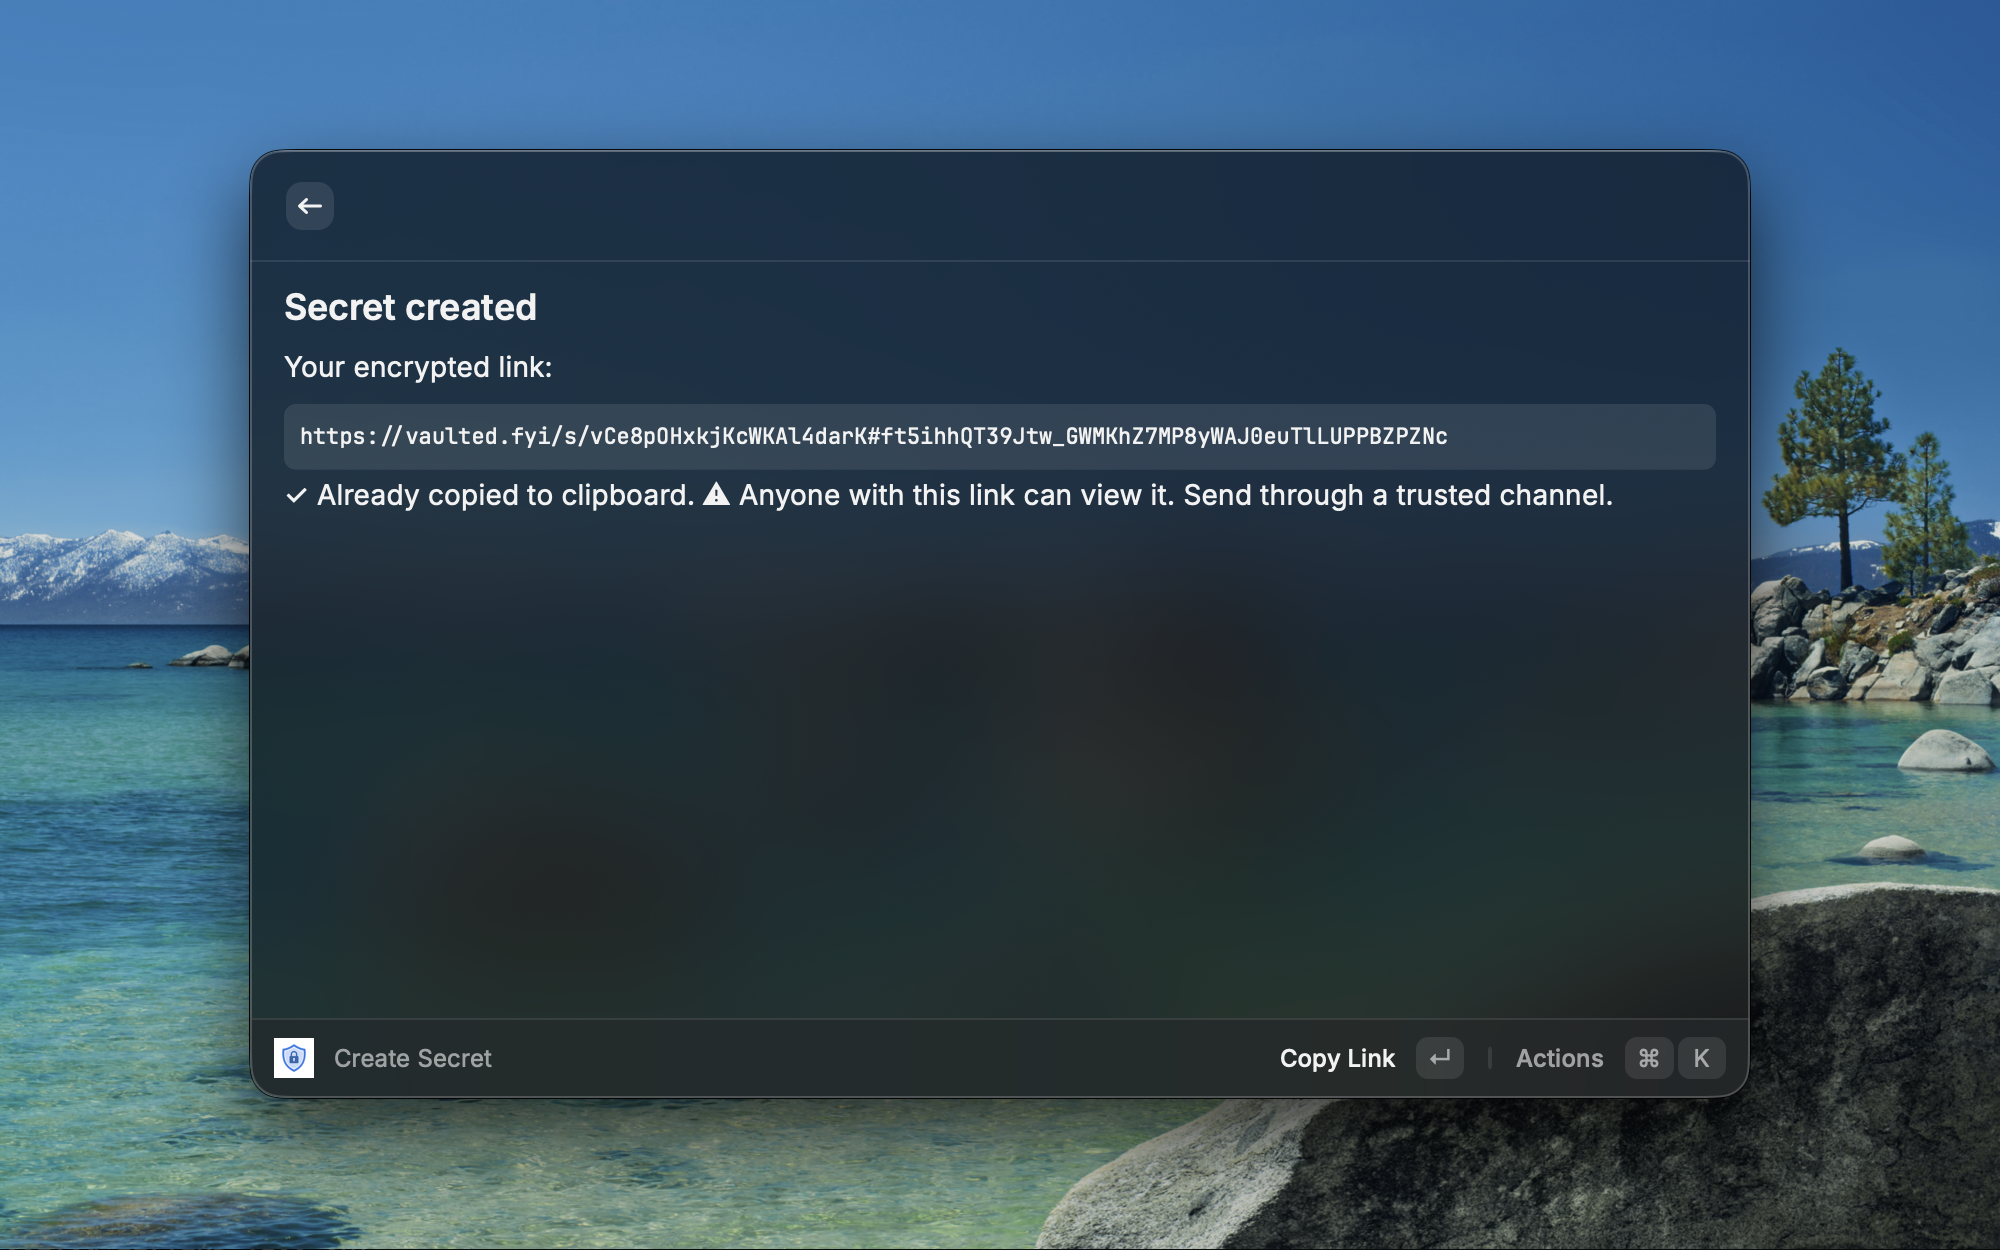
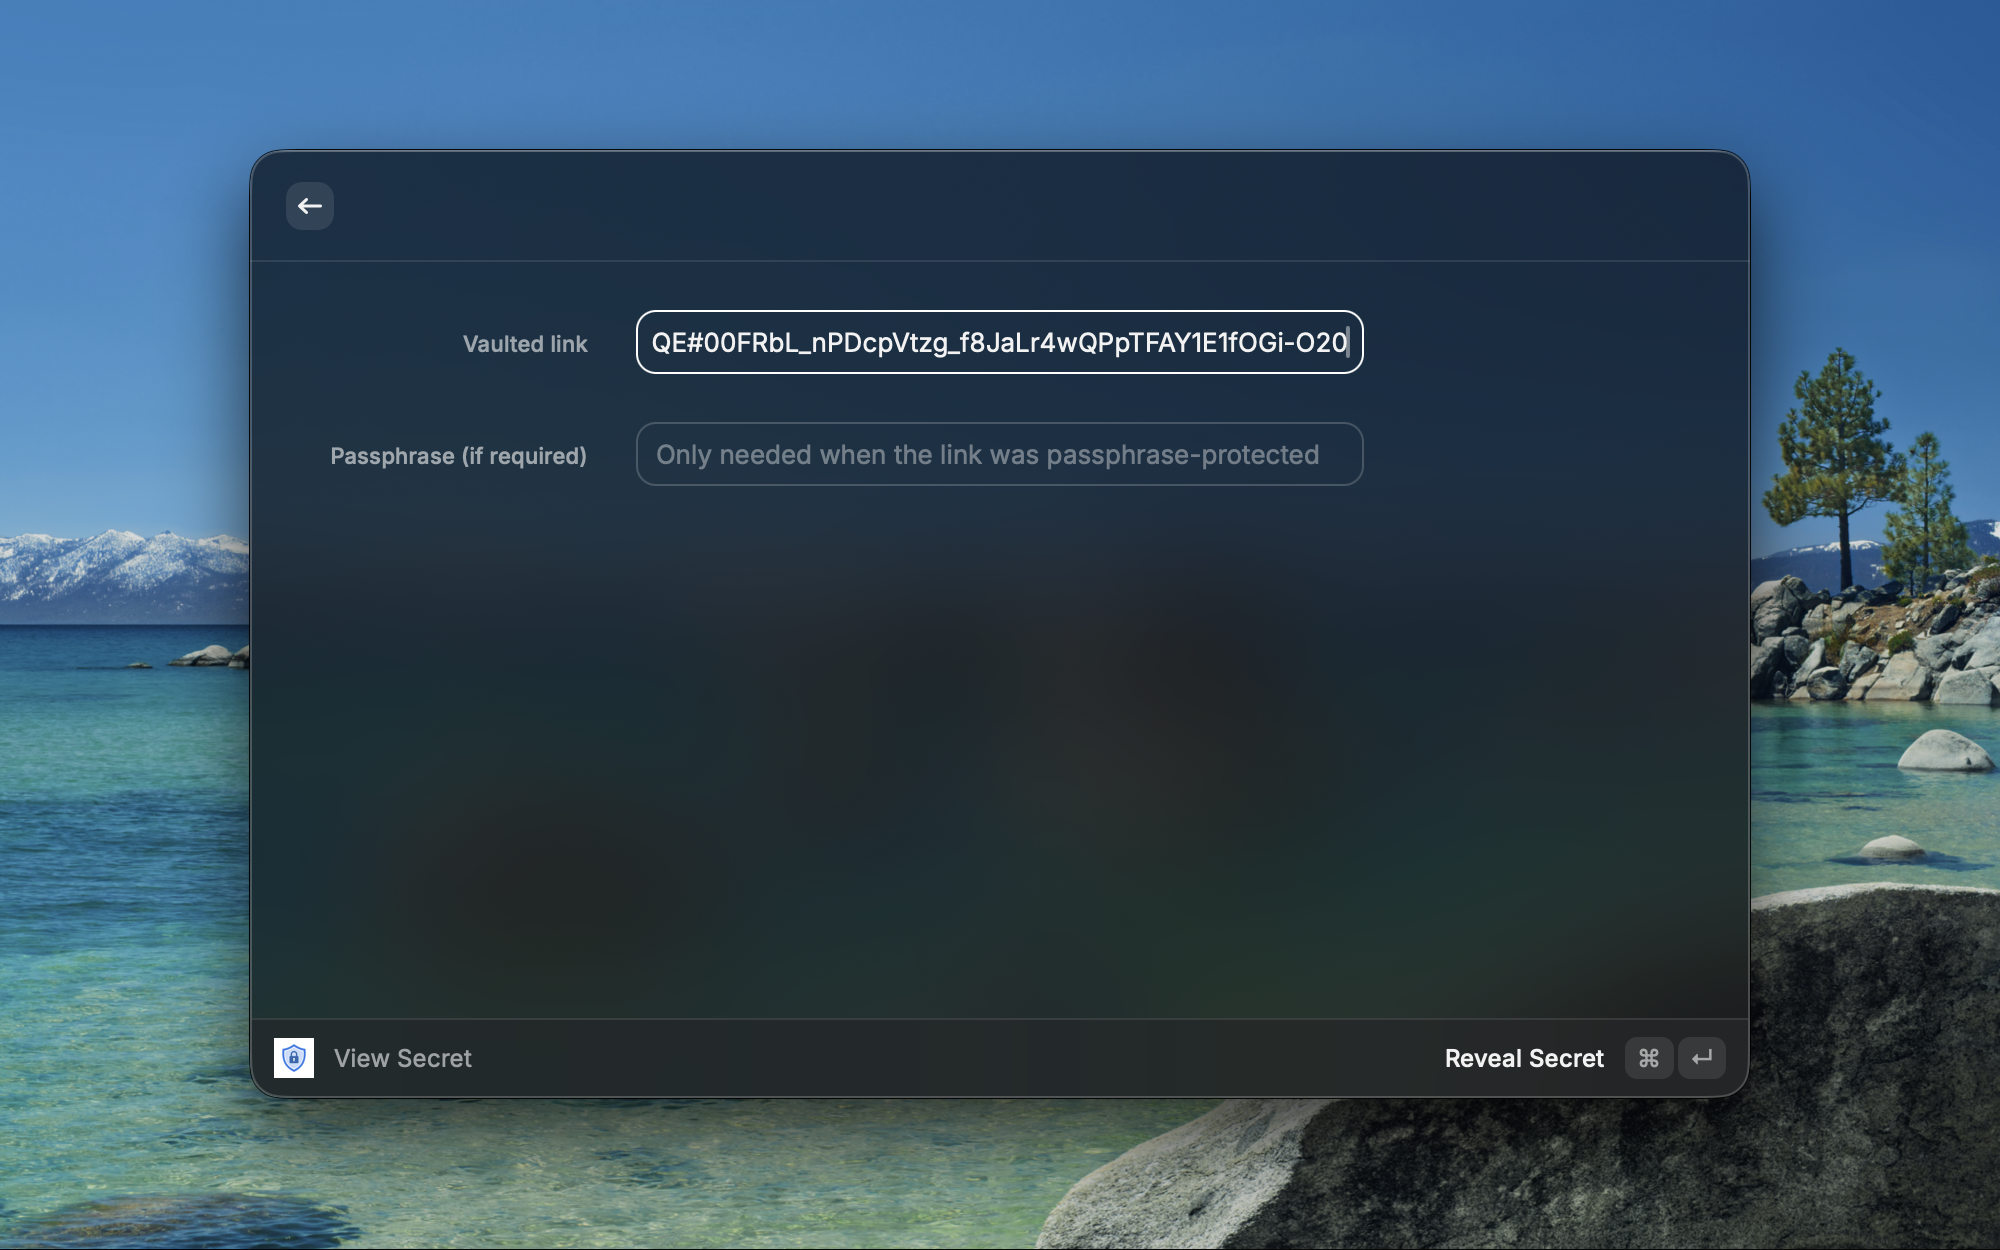
fix: use popToRoot and guard against double-submit on secret forms (#13)
* fix: use popToRoot and guard against double-submit on secret forms

Address Raycast review feedback (PR #28354). After creating a secret the command now copies the
link, shows a confirmation HUD, and returns to root instead of pushing a Detail view. Both the
create and reveal forms ignore repeated submits while a request is in flight, so rapid Cmd+Enter
no longer creates duplicate secrets or consumes extra views. The now-redundant auto-copy
preference is removed since the link is always copied.

* fix: clear secret and passphrase fields after successful create

Raycast keeps view-mode commands warm in memory, so popToRoot() returned
to the launcher without clearing the uncontrolled Secret/Passphrase
fields — leaving plaintext resident on the device and visible when the
command was reopened. Make both sensitive fields controlled and reset
them on the success path before navigating away.

* docs: update metadata screenshots

* docs: recapture metadata screenshots at 2000x1250

diff --git a/src/create-secret.tsx b/src/create-secret.tsx
@@ -2,15 +2,14 @@ import {
   Action,
   ActionPanel,
   Clipboard,
-  Detail,
   Form,
   Toast,
   open,
   popToRoot,
+  showHUD,
   showToast,
-  useNavigation,
 } from "@raycast/api";
-import { useMemo, useState } from "react";
+import { useMemo, useRef, useState } from "react";
 import { PreferencesErrorView } from "./components/preferences-error";
 import { createSecretFlow } from "./lib/crypto-flows";
 import { toMessage } from "./lib/errors";
@@ -46,8 +45,10 @@ function viewsLabel(v: MaxViews): string {
 
 export default function CreateSecretCommand() {
   const prefsResult = useMemo(() => loadPrefs(), []);
-  const { push } = useNavigation();
   const [loading, setLoading] = useState(false);
+  const [secret, setSecret] = useState("");
+  const [passphrase, setPassphrase] = useState("");
+  const submitting = useRef(false);
 
   if (!prefsResult.ok) {
     return <PreferencesErrorView message={prefsResult.error} />;
@@ -55,22 +56,29 @@ export default function CreateSecretCommand() {
   const prefs = prefsResult.prefs;
 
   async function handleSubmit(values: FormValues) {
+    if (submitting.current) return;
+    submitting.current = true;
     setLoading(true);
     try {
+      const views = Number(values.views) as MaxViews;
+      const expiry = values.expiry as Expiry;
       const result = await createSecretFlow({
         plaintext: values.secret,
         host: prefs.host,
-        views: Number(values.views) as MaxViews,
-        expiry: values.expiry as Expiry,
+        views,
+        expiry,
         passphrase: values.passphrase || undefined,
       });
-      if (prefs.autoCopy) {
-        await Clipboard.copy(result.url);
-      }
+      await Clipboard.copy(result.url);
       if (prefs.openInBrowser) {
         await open(result.url);
       }
-      push(<SecretCreatedView url={result.url} autoCopied={prefs.autoCopy} />);
+      await showHUD(
+        `✓ Secret created — link copied (${viewsLabel(views)} · ${EXPIRY_LABELS[expiry]})`,
+      );
+      setSecret("");
+      setPassphrase("");
+      await popToRoot();
     } catch (err) {
       await showToast({
         style: Toast.Style.Failure,
@@ -79,6 +87,7 @@ export default function CreateSecretCommand() {
       });
     } finally {
       setLoading(false);
+      submitting.current = false;
     }
   }
 
@@ -97,6 +106,8 @@ export default function CreateSecretCommand() {
       <Form.TextArea
         id="secret"
         title="Secret"
+        value={secret}
+        onChange={setSecret}
         placeholder={`Paste up to ${MAX_SECRET_LENGTH} characters`}
         info="Encrypted on your machine. The server never sees plaintext."
       />
@@ -125,45 +136,10 @@ export default function CreateSecretCommand() {
       <Form.PasswordField
         id="passphrase"
         title="Passphrase (optional)"
+        value={passphrase}
+        onChange={setPassphrase}
         placeholder="Adds a second factor; recipient must enter it to decrypt"
       />
     </Form>
-  );
-}
-
-function SecretCreatedView({
-  url,
-  autoCopied,
-}: {
-  url: string;
-  autoCopied: boolean;
-}) {
-  const markdown = [
-    "## Secret created",
-    "",
-    "Your encrypted link:",
-    "",
-    "```",
-    url,
-    "```",
-    "",
-    autoCopied ? "✓ Already copied to clipboard." : "",
-    "",
-    "⚠ Anyone with this link can view it. Send through a trusted channel.",
-  ]
-    .filter(Boolean)
-    .join("\n");
-
-  return (
-    <Detail
-      markdown={markdown}
-      actions={
-        <ActionPanel>
-          <Action.CopyToClipboard title="Copy Link" content={url} />
-          <Action.OpenInBrowser title="Open in Browser" url={url} />
-          <Action title="Create Another" onAction={() => popToRoot()} />
-        </ActionPanel>
-      }
-    />
   );
 }

diff --git a/src/view-secret.tsx b/src/view-secret.tsx
@@ -9,7 +9,7 @@ import {
   showToast,
   useNavigation,
 } from "@raycast/api";
-import { useMemo, useState } from "react";
+import { useMemo, useRef, useState } from "react";
 import { PreferencesErrorView } from "./components/preferences-error";
 import { viewSecretFlow } from "./lib/crypto-flows";
 import { toMessage } from "./lib/errors";
@@ -24,6 +24,7 @@ export default function ViewSecretCommand() {
   const prefsResult = useMemo(() => loadPrefs(), []);
   const { push } = useNavigation();
   const [loading, setLoading] = useState(false);
+  const submitting = useRef(false);
 
   if (!prefsResult.ok) {
     return <PreferencesErrorView message={prefsResult.error} />;
@@ -31,19 +32,21 @@ export default function ViewSecretCommand() {
   const prefs = prefsResult.prefs;
 
   async function handleSubmit(values: FormValues) {
-    if (prefs.confirmConsume) {
-      const ok = await confirmAlert({
-        title: "Reveal this secret?",
-        message:
-          "Viewing consumes one view. The secret may be destroyed afterwards.",
-        primaryAction: { title: "Reveal", style: Alert.ActionStyle.Default },
-        dismissAction: { title: "Cancel", style: Alert.ActionStyle.Cancel },
-      });
-      if (!ok) return;
-    }
-
-    setLoading(true);
+    if (submitting.current) return;
+    submitting.current = true;
     try {
+      if (prefs.confirmConsume) {
+        const ok = await confirmAlert({
+          title: "Reveal this secret?",
+          message:
+            "Viewing consumes one view. The secret may be destroyed afterwards.",
+          primaryAction: { title: "Reveal", style: Alert.ActionStyle.Default },
+          dismissAction: { title: "Cancel", style: Alert.ActionStyle.Cancel },
+        });
+        if (!ok) return;
+      }
+
+      setLoading(true);
       const result = await viewSecretFlow({
         url: values.url.trim(),
         passphrase: values.passphrase || undefined,
@@ -62,6 +65,7 @@ export default function ViewSecretCommand() {
       });
     } finally {
       setLoading(false);
+      submitting.current = false;
     }
   }
 

diff --git a/src/lib/preferences.ts b/src/lib/preferences.ts
@@ -15,7 +15,6 @@ export interface Preferences {
   host: string;
   defaultViews: MaxViews;
   defaultExpiry: Expiry;
-  autoCopy: boolean;
   openInBrowser: boolean;
   confirmConsume: boolean;
 }
@@ -24,7 +23,6 @@ interface RawPreferences {
   host?: string;
   defaultViews?: string;
   defaultExpiry?: string;
-  autoCopy?: boolean;
   openInBrowser?: boolean;
   confirmConsume?: boolean;
 }
@@ -40,7 +38,6 @@ export function getPrefs(): Preferences {
     host,
     defaultViews: parseViews(raw.defaultViews),
     defaultExpiry: parseExpiry(raw.defaultExpiry),
-    autoCopy: raw.autoCopy ?? true,
     openInBrowser: raw.openInBrowser ?? false,
     confirmConsume: raw.confirmConsume ?? true,
   };

diff --git a/README.md b/README.md
@@ -31,7 +31,6 @@ Paste a Vaulted link, optionally enter the passphrase if the link was passphrase
 - **Vaulted host** — Base URL of the Vaulted instance. Default `https://vaulted.fyi`. Point at your own deployment for self-hosted use.
 - **Default max views** — How many times the link can be viewed before destruction. Default 1.
 - **Default expiry** — How long the link survives if unused. Default 24 hours.
-- **Auto-copy link** — Copy the share link to the clipboard immediately on creation. Default on.
 - **Open in browser** — Open the link in your browser after creation. Default off.
 - **Confirm before consuming a view** — Show a confirmation before revealing a secret in the View command. Default on.
 
